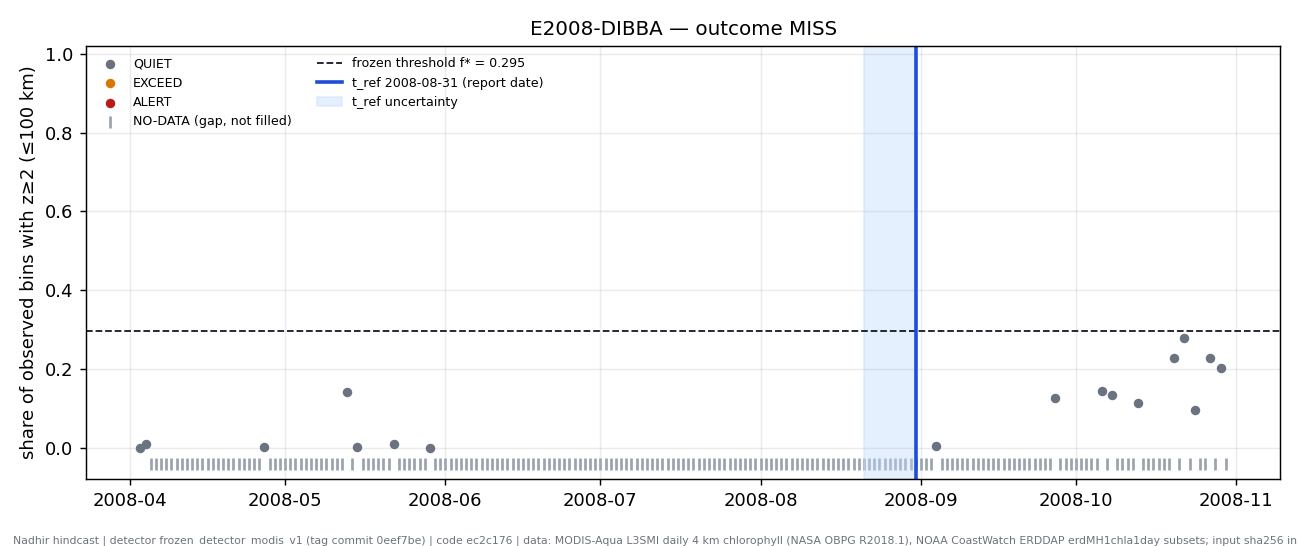
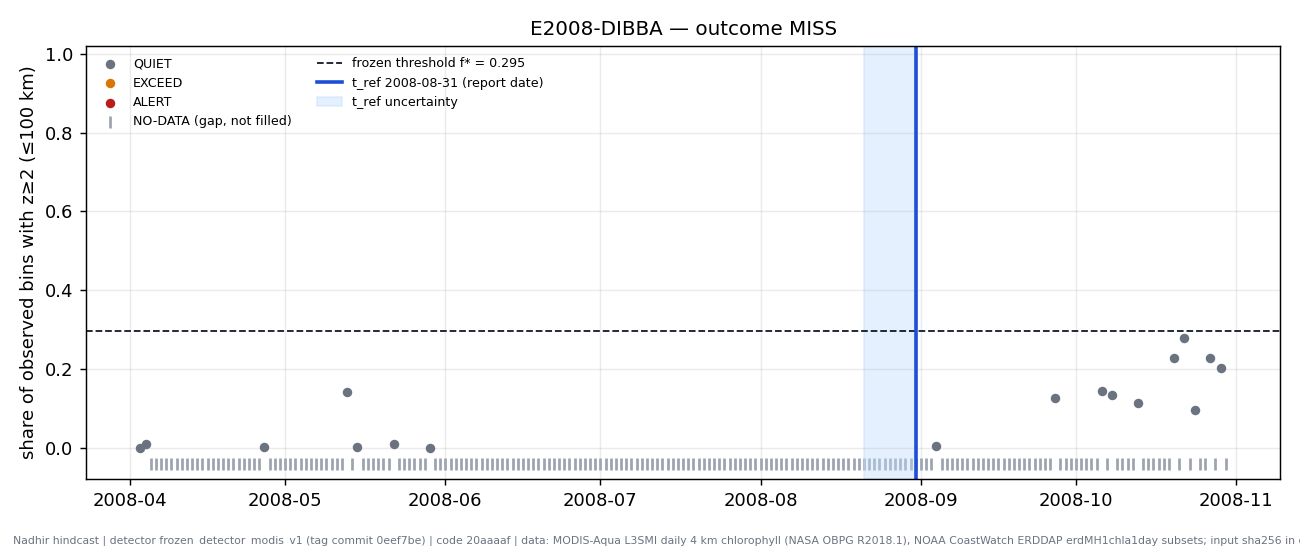
Hindcast outputs: frozen-detector-modis-v1 (2003-2014); v1 regenerated (unchanged)
Claude-Session: https://claude.ai/code/session_018ixFkyPrbcfsbmuviDyM9r

Changed region(s): [[0.3692, 0.9652, 1.0, 1.0]]

diff --git a/src/nadhir/report.py b/src/nadhir/report.py
@@ -70,7 +70,7 @@ def main(argv=None):
     L.append("Charts: " + ", ".join(f"`event_{e}_r{r0}.png`" for e in p["event"]) + "\n")
 
     L.append("## 2. Sensitivity to watch radius (frozen at the same time; not tuned on events)\n")
-    s = leads[["event", "radius_km", "outcome", "lead_alert_days", "lead_alert_min_days", "lead_max_days", "f_threshold"]]
+    s = leads.reindex(columns=["event", "radius_km", "outcome", "obs_days_in_lookback", "lead_alert_days", "lead_alert_min_days", "lead_max_days", "f_threshold"])
     L.append(md_table(s.sort_values(["event", "radius_km"])))
     L.append("")
 

diff --git a/outputs/frozen_detector_modis_v1/RESULTS.md b/outputs/frozen_detector_modis_v1/RESULTS.md
@@ -1,0 +1,134 @@
+# Nadhir hindcast results — `frozen_detector_modis_v1`
+
+_Generated by `python -m nadhir.report`; every number below is read from the CSVs in this folder._
+
+## Provenance
+
+- Detector frozen at tag `frozen-detector-modis-v1` → commit `0eef7be`; evaluation code commit `20aaaaf`.
+- Calibration period (thresholds + climatology): 2003-01-01 → 2007-12-31.
+- config/nadhir.yaml sha256 `ba22ab0dc8076dab…`; frozen config sha256 `5bca6f4cde794f51…`; events.yaml sha256 `d0f61218d5a69c7e…`.
+- Input bin tables (content sha256 of decompressed CSV): `modis_bins_2003.csv.gz` `568222c1376a…`, `modis_bins_2004.csv.gz` `fc53991a9eaa…`, `modis_bins_2005.csv.gz` `17a1c48ee200…`, `modis_bins_2006.csv.gz` `5b5da0c96384…`, `modis_bins_2007.csv.gz` `a8e25faeb530…`, `modis_bins_2008.csv.gz` `dbbba466ec42…`, `modis_bins_2009.csv.gz` `18f0139bce54…`, `modis_bins_2010.csv.gz` `ec47ba2a76d6…`, `modis_bins_2011.csv.gz` `3866d773630a…`, `modis_bins_2012.csv.gz` `9f0008165487…`, `modis_bins_2013.csv.gz` `aebddde70b85…`, `modis_bins_2014.csv.gz` `c3f5429967ea…`
+- Source files (SHA-256 per file): `data/derived/modis_objects.csv`.
+- Data: MODIS-Aqua L3SMI daily 4 km chlorophyll (NASA OBPG R2018.1), NOAA CoastWatch ERDDAP erdMH1chla1day subsets.
+
+## 1. Event lead times (primary watch radius 50 km)
+
+`lead_alert_days` = t_ref − first ALERT day. t_ref is the **public report date** (an upper bound on the true impact onset), so the operational lead time could be shorter by up to `t_ref − t_ref_earliest`: `lead_alert_min_days` is the lead time if impact began at `t_ref_earliest`. `lead_max_days` = t_ref − last QUIET observation before the anomaly: the bloom entered the zone somewhere in that interval (satellite gaps).
+
+| event | evaluation | outcome | t_ref | obs_days_in_lookback | days_in_lookback | date_precision | evidence_status |
+|---|---|---|---|---|---|---|---|
+| E2008-RAK | EVALUATED | MISS | 2008-09-10 | 1 | 121 | month | UNVERIFIED |
+| E2008-DIBBA | EVALUATED | NO-DATA | 2008-08-31 | 0 | 121 | dekad (late August) | UNVERIFIED (date phrase from search summary; paper record itself confirmed via HAB-hyperspectral) |
+
+Charts: `event_E2008-RAK_r50.png`, `event_E2008-DIBBA_r50.png`
+
+## 2. Sensitivity to watch radius (frozen at the same time; not tuned on events)
+
+| event | radius_km | outcome | obs_days_in_lookback | lead_alert_days | lead_alert_min_days | lead_max_days | f_threshold |
+|---|---|---|---|---|---|---|---|
+| E2008-DIBBA | 25 | NO-DATA | 0 | — | — | — | 0.421 |
+| E2008-DIBBA | 50 | NO-DATA | 0 | — | — | — | 0.362 |
+| E2008-DIBBA | 100 | MISS | 4 | — | — | — | 0.295 |
+| E2008-RAK | 25 | MISS | 1 | — | — | — | 0.400 |
+| E2008-RAK | 50 | MISS | 1 | — | — | — | 0.309 |
+| E2008-RAK | 100 | MISS | 4 | — | — | — | 0.251 |
+
+## 3. False alarms in periods with no documented disruption
+
+`heldout_quiet` = 2010-01-01..2012-12-31 plus years [2014] outside event exclusion windows (intake-years excluded: none). **Out-of-sample.** Undocumented real blooms may exist in these periods, so these are upper bounds on true false-alarm rates. `calibration (in-sample)` is shown for reference only.
+
+| intake | radius_km | f_threshold | set | quiet_days | quiet_observed_days | alert_days | alert_day_rate_of_observed | alert_episodes_started | episodes_per_365_days | episodes_per_100_observed_days |
+|---|---|---|---|---|---|---|---|---|---|---|
+| dibba | 25 | 0.421 | calibration (in-sample) | 1826 | 353 | 3 | 0.009 | 3 | 1 | 1 |
+| dibba | 50 | 0.362 | calibration (in-sample) | 1826 | 418 | 8 | 0.019 | 6 | 1 | 1 |
+| dibba | 100 | 0.295 | calibration (in-sample) | 1826 | 509 | 7 | 0.014 | 4 | 1 | 1 |
+| fujairah | 25 | 0.300 | calibration (in-sample) | 1826 | 370 | 6 | 0.016 | 4 | 1 | 1 |
+| fujairah | 50 | 0.323 | calibration (in-sample) | 1826 | 453 | 8 | 0.018 | 4 | 1 | 1 |
+| fujairah | 100 | 0.327 | calibration (in-sample) | 1826 | 505 | 9 | 0.018 | 6 | 1 | 1 |
+| kalba | 25 | 0.293 | calibration (in-sample) | 1826 | 375 | 7 | 0.019 | 4 | 1 | 1 |
+| kalba | 50 | 0.326 | calibration (in-sample) | 1826 | 443 | 8 | 0.018 | 4 | 1 | 1 |
+| kalba | 100 | 0.352 | calibration (in-sample) | 1826 | 507 | 8 | 0.016 | 6 | 1 | 1 |
+| rak | 25 | 0.400 | calibration (in-sample) | 1826 | 355 | 4 | 0.011 | 2 | 0 | 1 |
+| rak | 50 | 0.309 | calibration (in-sample) | 1826 | 438 | 6 | 0.014 | 5 | 1 | 1 |
+| rak | 100 | 0.251 | calibration (in-sample) | 1826 | 515 | 8 | 0.015 | 5 | 1 | 1 |
+| dibba | 25 | 0.421 | heldout_quiet | 1461 | 283 | 8 | 0.028 | 5 | 1 | 2 |
+| dibba | 50 | 0.362 | heldout_quiet | 1461 | 325 | 10 | 0.031 | 6 | 2 | 2 |
+| dibba | 100 | 0.295 | heldout_quiet | 1461 | 391 | 10 | 0.026 | 9 | 2 | 2 |
+| fujairah | 25 | 0.300 | heldout_quiet | 1461 | 276 | 11 | 0.040 | 7 | 2 | 3 |
+| fujairah | 50 | 0.323 | heldout_quiet | 1461 | 319 | 7 | 0.022 | 5 | 1 | 2 |
+| fujairah | 100 | 0.327 | heldout_quiet | 1461 | 377 | 8 | 0.021 | 5 | 1 | 1 |
+| kalba | 25 | 0.293 | heldout_quiet | 1461 | 276 | 13 | 0.047 | 8 | 2 | 3 |
+| kalba | 50 | 0.326 | heldout_quiet | 1461 | 319 | 6 | 0.019 | 4 | 1 | 1 |
+| kalba | 100 | 0.352 | heldout_quiet | 1461 | 376 | 7 | 0.019 | 5 | 1 | 1 |
+| rak | 25 | 0.400 | heldout_quiet | 1461 | 293 | 3 | 0.010 | 2 | 0 | 1 |
+| rak | 50 | 0.309 | heldout_quiet | 1461 | 352 | 7 | 0.020 | 6 | 2 | 2 |
+| rak | 100 | 0.251 | heldout_quiet | 1461 | 401 | 12 | 0.030 | 7 | 2 | 2 |
+
+## 4. Observation coverage and gaps (NO-DATA days are never filled)
+
+| intake | year | days | observed_days | observed_frac | median_gap_days | p90_gap_days | max_gap_days |
+|---|---|---|---|---|---|---|---|
+| kalba | 2003 | 365 | 78 | 0.214 | 2 | 10 | 86 |
+| kalba | 2004 | 366 | 95 | 0.260 | 1 | 8 | 102 |
+| kalba | 2005 | 365 | 97 | 0.266 | 1 | 6 | 97 |
+| kalba | 2006 | 365 | 88 | 0.241 | 3 | 6 | 88 |
+| kalba | 2007 | 365 | 85 | 0.233 | 2 | 8 | 81 |
+| kalba | 2008 | 366 | 71 | 0.194 | 1 | 9 | 120 |
+| kalba | 2009 | 365 | 66 | 0.181 | 2 | 14 | 117 |
+| kalba | 2010 | 365 | 91 | 0.249 | 1 | 11 | 93 |
+| kalba | 2011 | 365 | 60 | 0.164 | 2 | 11 | 102 |
+| kalba | 2012 | 366 | 64 | 0.175 | 2 | 6 | 102 |
+| kalba | 2013 | 365 | 83 | 0.227 | 1 | 8 | 103 |
+| kalba | 2014 | 365 | 104 | 0.285 | 2 | 6 | 76 |
+| fujairah | 2003 | 365 | 81 | 0.222 | 2 | 10 | 86 |
+| fujairah | 2004 | 366 | 97 | 0.265 | 1 | 8 | 99 |
+| fujairah | 2005 | 365 | 98 | 0.268 | 1 | 6 | 97 |
+| fujairah | 2006 | 365 | 89 | 0.244 | 3 | 6 | 88 |
+| fujairah | 2007 | 365 | 88 | 0.241 | 2 | 8 | 81 |
+| fujairah | 2008 | 366 | 71 | 0.194 | 1 | 11 | 97 |
+| fujairah | 2009 | 365 | 65 | 0.178 | 2 | 14 | 117 |
+| fujairah | 2010 | 365 | 92 | 0.252 | 1 | 11 | 93 |
+| fujairah | 2011 | 365 | 58 | 0.159 | 1 | 11 | 102 |
+| fujairah | 2012 | 366 | 65 | 0.178 | 1 | 6 | 102 |
+| fujairah | 2013 | 365 | 83 | 0.227 | 2 | 8 | 103 |
+| fujairah | 2014 | 365 | 104 | 0.285 | 2 | 6 | 76 |
+| rak | 2003 | 365 | 78 | 0.214 | 2 | 11 | 88 |
+| rak | 2004 | 366 | 86 | 0.235 | 2 | 8 | 88 |
+| rak | 2005 | 365 | 102 | 0.279 | 2 | 7 | 90 |
+| rak | 2006 | 365 | 86 | 0.236 | 2 | 6 | 104 |
+| rak | 2007 | 365 | 86 | 0.236 | 2 | 10 | 81 |
+| rak | 2008 | 366 | 65 | 0.178 | 2 | 9 | 129 |
+| rak | 2009 | 365 | 71 | 0.195 | 1 | 14 | 111 |
+| rak | 2010 | 365 | 99 | 0.271 | 1 | 10 | 93 |
+| rak | 2011 | 365 | 75 | 0.205 | 2 | 10 | 102 |
+| rak | 2012 | 366 | 76 | 0.208 | 1 | 6 | 102 |
+| rak | 2013 | 365 | 88 | 0.241 | 1 | 8 | 108 |
+| rak | 2014 | 365 | 102 | 0.279 | 2 | 7 | 79 |
+| dibba | 2003 | 365 | 76 | 0.208 | 2 | 12 | 88 |
+| dibba | 2004 | 366 | 85 | 0.232 | 2 | 7 | 99 |
+| dibba | 2005 | 365 | 95 | 0.260 | 1 | 7 | 95 |
+| dibba | 2006 | 365 | 82 | 0.225 | 2 | 6 | 105 |
+| dibba | 2007 | 365 | 80 | 0.219 | 2 | 10 | 81 |
+| dibba | 2008 | 366 | 64 | 0.175 | 1 | 7 | 161 |
+| dibba | 2009 | 365 | 62 | 0.170 | 2 | 15 | 124 |
+| dibba | 2010 | 365 | 93 | 0.255 | 1 | 10 | 109 |
+| dibba | 2011 | 365 | 68 | 0.186 | 1 | 9 | 102 |
+| dibba | 2012 | 366 | 67 | 0.183 | 1 | 6 | 102 |
+| dibba | 2013 | 365 | 81 | 0.222 | 1 | 8 | 112 |
+| dibba | 2014 | 365 | 97 | 0.266 | 2 | 7 | 79 |
+
+## 5. Alert activity over documented bloom periods
+
+For events with a documented period but no usable single date (season/year precision) and for the Al Raha limitation test: detector state over the whole period. No lead time is claimed for these.
+
+| event | evaluation | intake | radius_km | f_threshold | period | days | observed_days | exceed_or_alert_days | alert_days | max_anom_frac | median_anom_frac | alert_episodes_started | first_alert_in_period | first_exceed_in_period |
+|---|---|---|---|---|---|---|---|---|---|---|---|---|---|---|
+| E2013-KALBA | ACTIVITY-ONLY | kalba | 50 | 0.326 | 2013-01-01..2013-12-31 | 365 | 83 | 7 | 3 | 1 | 0 | 1 | 2013-05-18 | 2013-01-21 |
+| E2008-FUJ | ACTIVITY-ONLY | fujairah | 50 | 0.323 | 2008-08-21..2009-04-30 | 253 | 66 | 9 | 5 | 1 | 0 | 1 | 2008-11-16 | 2008-11-14 |
+| E2013-KALBA | ACTIVITY-ONLY | kalba | 25 | 0.293 | 2013-01-01..2013-12-31 | 365 | 71 | 13 | 8 | 1 | 0 | 4 | 2013-01-05 | 2013-01-03 |
+| E2008-FUJ | ACTIVITY-ONLY | fujairah | 25 | 0.300 | 2008-08-21..2009-04-30 | 253 | 54 | 6 | 1 | 1 | 0 | 1 | 2008-11-21 | 2008-09-27 |
+| E2013-KALBA | ACTIVITY-ONLY | kalba | 100 | 0.352 | 2013-01-01..2013-12-31 | 365 | 94 | 3 | 1 | 1 | 0 | 1 | 2013-05-18 | 2013-01-21 |
+| E2008-FUJ | ACTIVITY-ONLY | fujairah | 100 | 0.327 | 2008-08-21..2009-04-30 | 253 | 77 | 9 | 7 | 1 | 0 | 2 | 2008-11-16 | 2008-11-14 |
+
+## 6. Events not evaluated
+

diff --git a/outputs/frozen_detector_v1/RESULTS.md b/outputs/frozen_detector_v1/RESULTS.md
@@ -4,12 +4,12 @@ _Generated by `python -m nadhir.report`; every number below is read from the CSV
 
 ## Provenance
 
-- Detector frozen at tag `frozen-detector-v1` → commit `723212e`; evaluation code commit `6d61890`.
+- Detector frozen at tag `frozen-detector-v1` → commit `723212e`; evaluation code commit `20aaaaf`.
 - Calibration period (thresholds + climatology): 2019-01-01 → 2021-12-31.
-- config/nadhir.yaml sha256 `ccfe7338f2bc25f6…`; frozen config sha256 `0738a21f24e8173d…`; events.yaml sha256 `7426f9e3ebaacedf…`.
+- config/nadhir.yaml sha256 `ba22ab0dc8076dab…`; frozen config sha256 `0738a21f24e8173d…`; events.yaml sha256 `d0f61218d5a69c7e…`.
 - Input bin tables (content sha256 of decompressed CSV): `olci_bins_2018.csv.gz` `64cedc891558…`, `olci_bins_2019.csv.gz` `61304ab27df0…`, `olci_bins_2020.csv.gz` `66d0199945da…`, `olci_bins_2021.csv.gz` `75a4d324224e…`, `olci_bins_2022.csv.gz` `473b5b5055fd…`, `olci_bins_2023.csv.gz` `d856eefe5e79…`
-- Source granule files (SHA-256 + S3 ETag per file): `data/derived/olci_objects_<year>.csv`.
-- Data: Sentinel-3 OLCI L2 WFR `CHL_OC4ME` (ESA/EUMETSAT), AWS `meeo-s3` mirror; flags per config `reject_flags`.
+- Source files (SHA-256 per file): `data/derived/olci_objects_2018.csv`, `data/derived/olci_objects_2019.csv`, `data/derived/olci_objects_2020.csv`, `data/derived/olci_objects_2021.csv`, `data/derived/olci_objects_2022.csv`, `data/derived/olci_objects_2023.csv`.
+- Data: Sentinel-3 OLCI L2 WFR OC4Me via AWS meeo-s3 mirror.
 
 ## 1. Event lead times (primary watch radius 50 km)
 
@@ -20,7 +20,7 @@ _Generated by `python -m nadhir.report`; every number below is read from the CSV
 | E2018-KALBA | EVALUATED | DETECTED | 2018-09-15 | 2018-09-03 | 2018-09-07 | 8 | -6 | 12 | 15 | 33 | 121 | day-of-report (upper bound) | UNVERIFIED |
 | E2018-BARKA | EVALUATED | MISS | 2018-02-25 | — | — | — | — | — | — | 20 | 56 | month | UNVERIFIED |
 | E2023-BARKA | EVALUATED | MISS | 2023-07-24 | — | — | — | — | — | — | 66 | 121 | day-of-report (upper bound) | UNVERIFIED |
-| E2023-ALRAHA | LIMITATION-TEST | MISS | 2023-04-15 | — | — | — | — | — | — | 68 | 121 | month | UNVERIFIED |
+| E2023-ALRAHA | LIMITATION-TEST | MISS | 2023-04-15 | — | — | — | — | — | — | 68 | 121 | month | VERIFIED-PRIMARY for place/month/species (EAD report, read in full by HAB-hyperspectral 2026-09-16; not re-fetched here) |
 
 Charts: `event_E2018-KALBA_r50.png`, `event_E2018-BARKA_r50.png`, `event_E2023-BARKA_r50.png`, `event_E2023-ALRAHA_r50.png`
 
@@ -43,7 +43,7 @@ Charts: `event_E2018-KALBA_r50.png`, `event_E2018-BARKA_r50.png`, `event_E2023-B
 
 ## 3. False alarms in periods with no documented disruption
 
-`heldout_quiet` = 2022 plus 2018/2023 days outside event exclusion windows (Barka-2018 and Al Raha-2023 excluded, see config `quiet_exclude`). **Out-of-sample.** Undocumented real blooms may exist in these periods, so these are upper bounds on true false-alarm rates. `calibration (in-sample)` is shown for reference only.
+`heldout_quiet` = 2022-01-01..2022-12-31 plus years [2018, 2023] outside event exclusion windows (intake-years excluded: {'barka': [2018], 'alraha': [2023]}). **Out-of-sample.** Undocumented real blooms may exist in these periods, so these are upper bounds on true false-alarm rates. `calibration (in-sample)` is shown for reference only.
 
 | intake | radius_km | f_threshold | set | quiet_days | quiet_observed_days | alert_days | alert_day_rate_of_observed | alert_episodes_started | episodes_per_365_days | episodes_per_100_observed_days |
 |---|---|---|---|---|---|---|---|---|---|---|
@@ -89,18 +89,15 @@ Charts: `event_E2018-KALBA_r50.png`, `event_E2018-BARKA_r50.png`, `event_E2023-B
 | alraha | 2022 | 365 | 194 | 0.532 | 1 | 3 | 78 |
 | alraha | 2023 | 311 | 180 | 0.579 | 1 | 3 | 15 |
 
-## 5. Documented-limitation test: Al Raha 2023 bloom period
+## 5. Alert activity over documented bloom periods
 
-Detector state over the whole documented bloom period (not just t_ref). Alert episodes in the period: see `episodes_alraha_r<radius>.csv`.
+For events with a documented period but no usable single date (season/year precision) and for the Al Raha limitation test: detector state over the whole period. No lead time is claimed for these.
 
-| event | intake | radius_km | f_threshold | period | days | observed_days | exceed_or_alert_days | alert_days | max_anom_frac | median_anom_frac |
-|---|---|---|---|---|---|---|---|---|---|---|
-| E2023-ALRAHA | alraha | 50 | 0.155 | 2023-04-01..2023-10-09 | 192 | 102 | 6 | 3 | 1 | 0 |
-| E2023-ALRAHA | alraha | 25 | 0.142 | 2023-04-01..2023-10-09 | 192 | 99 | 6 | 1 | 0 | 0 |
-| E2023-ALRAHA | alraha | 100 | 0.195 | 2023-04-01..2023-10-09 | 192 | 106 | 8 | 4 | 1 | 0 |
+| event | evaluation | intake | radius_km | f_threshold | period | days | observed_days | exceed_or_alert_days | alert_days | max_anom_frac | median_anom_frac | alert_episodes_started | first_alert_in_period | first_exceed_in_period |
+|---|---|---|---|---|---|---|---|---|---|---|---|---|---|---|
+| E2023-ALRAHA | LIMITATION-TEST | alraha | 50 | 0.155 | 2023-04-01..2023-10-09 | 192 | 102 | 6 | 3 | 1 | 0 | 2 | 2023-09-06 | 2023-08-18 |
+| E2023-ALRAHA | LIMITATION-TEST | alraha | 25 | 0.142 | 2023-04-01..2023-10-09 | 192 | 99 | 6 | 1 | 0 | 0 | 1 | 2023-09-05 | 2023-04-01 |
+| E2023-ALRAHA | LIMITATION-TEST | alraha | 100 | 0.195 | 2023-04-01..2023-10-09 | 192 | 106 | 8 | 4 | 1 | 0 | 4 | 2023-05-23 | 2023-05-21 |
 
 ## 6. Events not evaluated
 
-- **E2008-FUJ** — 2008–09 Cochlodinium polykrikoides red tide — Fujairah SWRO shutdown (2008-08/2008-12, precision season): no ocean-colour data reachable for that period in this environment (data/SOURCE_STATUS.md).
-- **E2008-RAK** — 2008 red tide — RAK Al Ghalilah desalination plant closed; Al Jeil without water 4 days (2008-09, precision month): no ocean-colour data reachable for that period in this environment (data/SOURCE_STATUS.md).
-- **E2013-KALBA** — 2013 Kalba desalination plant shut (membrane clogging by algae) (2013, precision year): no ocean-colour data reachable for that period in this environment (data/SOURCE_STATUS.md).
